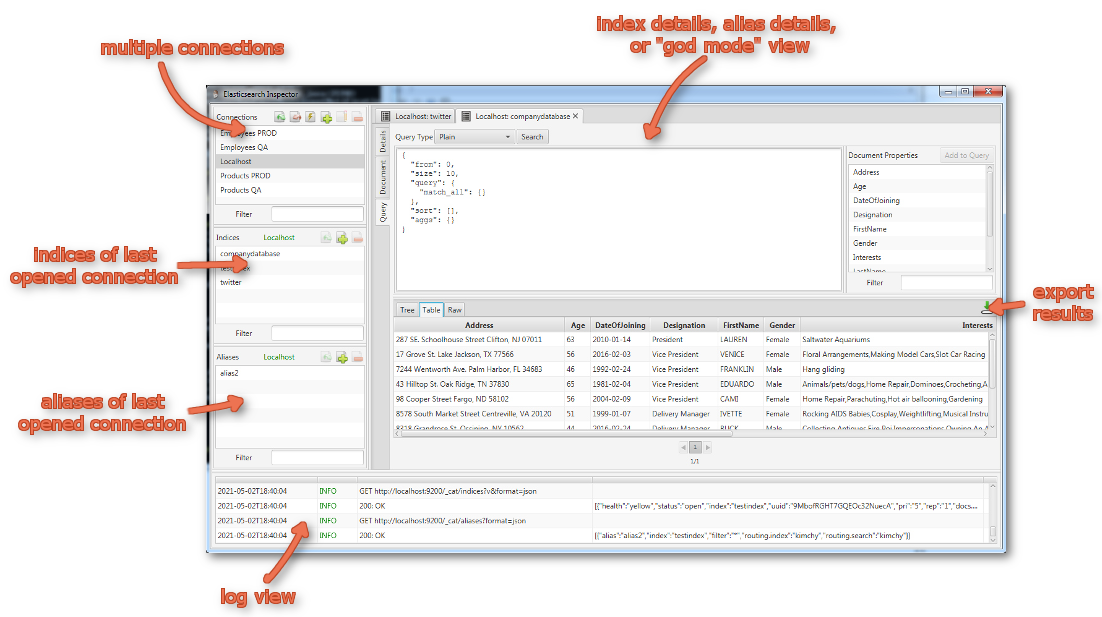
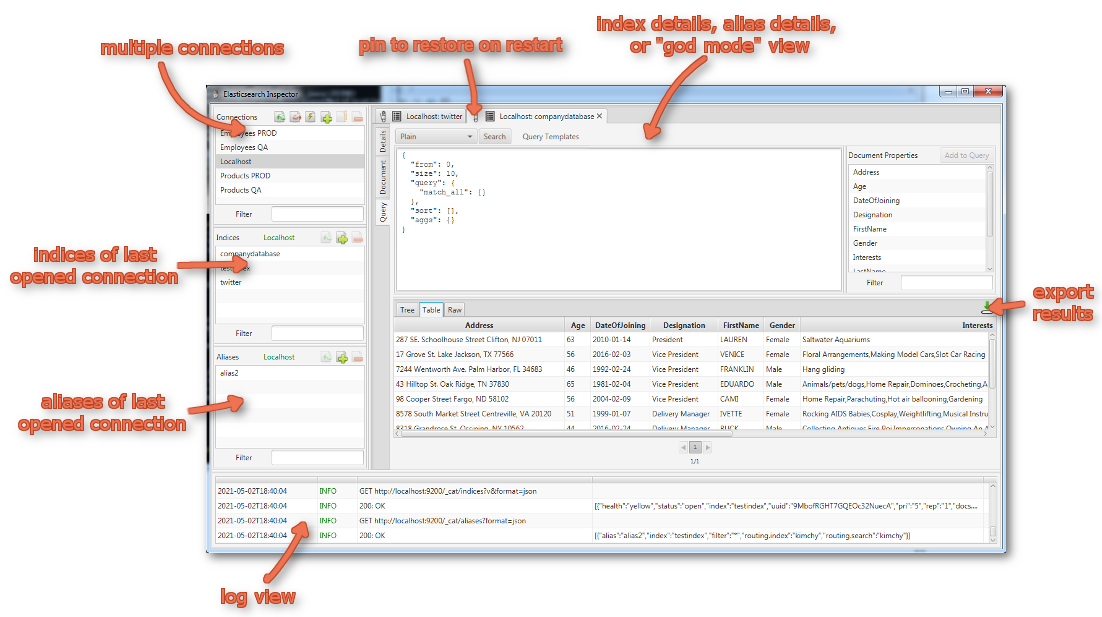
Added new feature descriptions

Changed region(s): [[0.3085, 0.0616, 0.5554, 0.2464]]

diff --git a/README.md b/README.md
@@ -16,6 +16,7 @@
     * [Document View](#document-view)
     * [Query View](#query-view)
   * [Expert View](#expert-view)
+  * [Session Restore](#session-restore)
 
 ## Running and Installation
 
@@ -87,6 +88,8 @@ When using plain queries for searching enter the query in the text field. When q
 
 You can use the keyboard shortcut `Ctrl+F` to open a small search dialog to do some text searches in your query text. This keyboard shortcut is available for every "source code styled" text box in the inspector.
 
+Plain query texts can be saved as templates for later re-use. A template can be saved as global template, making it available for all Elasticsearch connections in the inspector, or as connection template. A connection template is only available for the currently queried connection.
+
 ![Plain Query](images/query-view_plain.png)
 
 When using assisted queries (named "Guided Boolean" in the inspector) you are presented with a small UI that allows you to compose a relatively simple `bool` query. Select the properties and their values for `must`, `must_not`, and `should`. You can compose arbitrary many properties.
@@ -114,3 +117,11 @@ The table view allows you to re-order the columns via drag-&-drop of the column 
 If you know what you are doing you can open a "God Mode" view for each connection. You do so by using the little button with lightning bolt icon (<img src="https://github.com/orm-fux/es-inspector/blob/master/src/main/resources/com/github/ormfux/esi/ui/images/god_mode.png?raw=true" height="20" title="'God Mode'"/>) at the top of the connections list. It will show you a simple view that allows to call any REST API endpoint for that connection. You are free to define whatever call you want. *Be careful: Requests executed in this view do NOT synchronize with the other views showing information for this connection!*
 
 ![God Mode View](images/god-mode-view.png)
+
+### Session Restore
+
+In the tab header for index, alias, and expert view you can see a small pin icon (<img src="https://github.com/orm-fux/es-inspector/blob/master/src/main/resources/com/github/ormfux/esi/ui/images/pin.png?raw=true" height="20" title="'Pin'"/>). Clicking on the icon marks the tab as being restored when the inspector is opened the next time - i.e. it is "pinned to the inspector session". Input fields and sub-tab selections are restored for pinned tabs. 
+
+To unpin a tab simply click on the unpin icon (<img src="https://github.com/orm-fux/es-inspector/blob/master/src/main/resources/com/github/ormfux/esi/ui/images/unpin.png?raw=true" height="20" title="'Unpin'"/>), which has taken the place of the pin icon. 
+
+Depending on the pinned/unpinned state of the tab a different icon is displayed.
